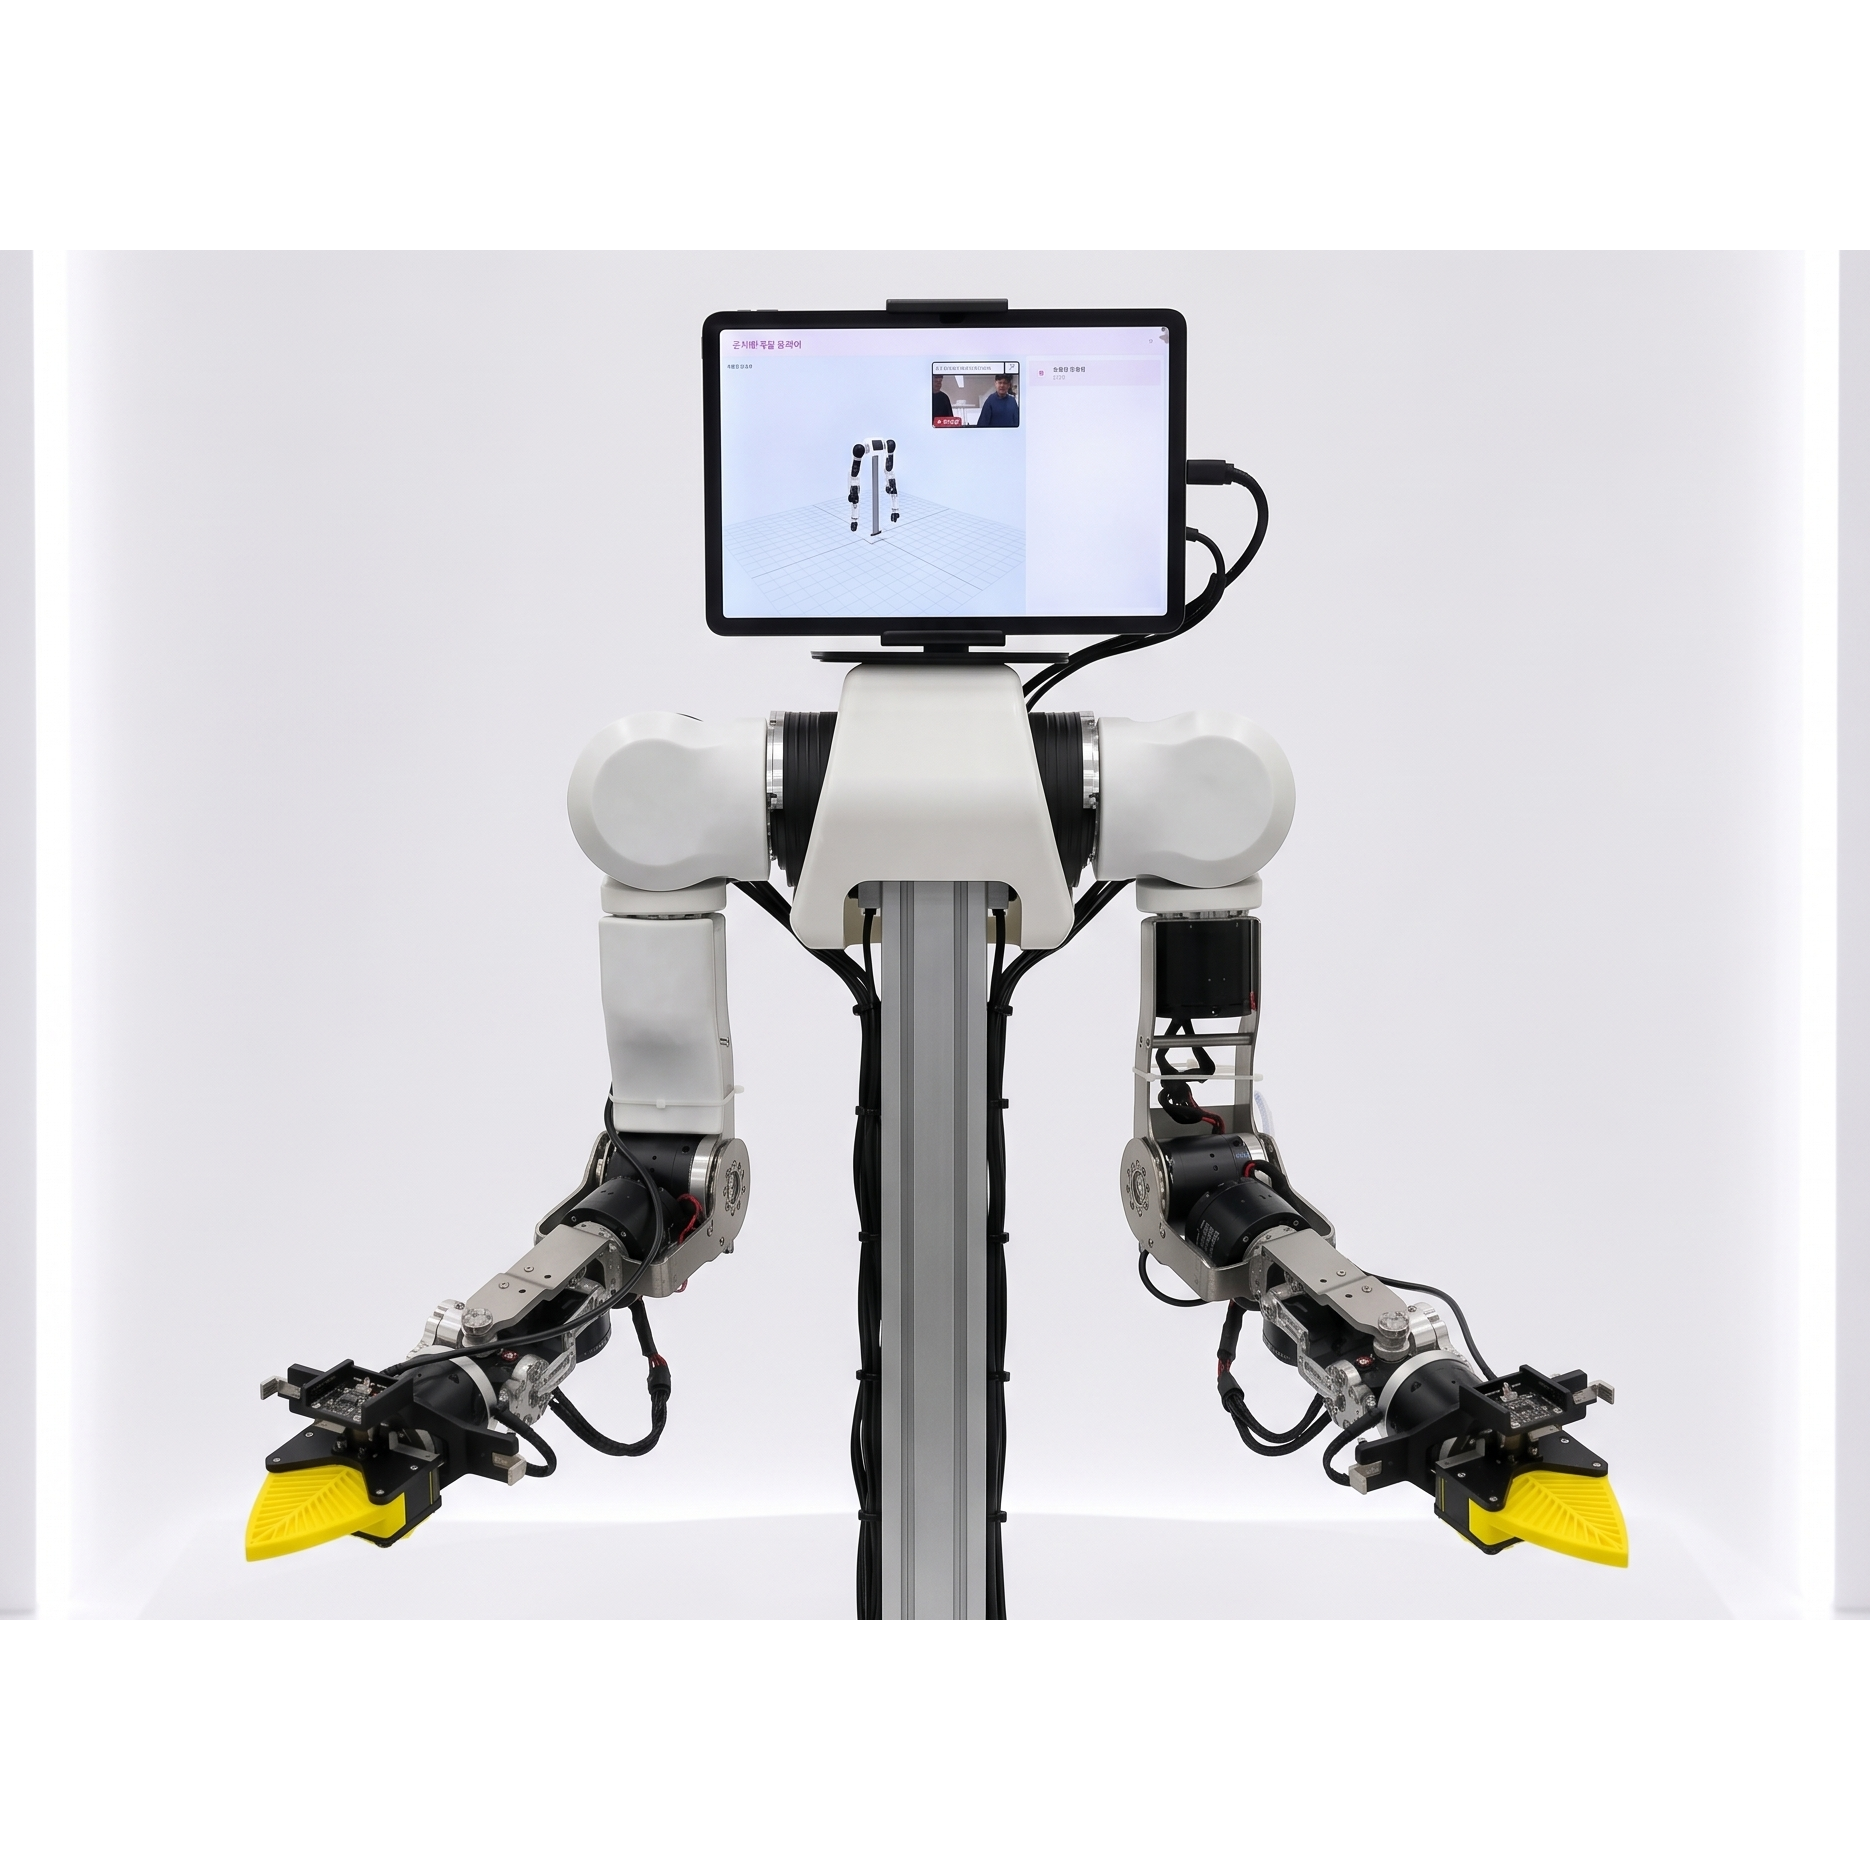
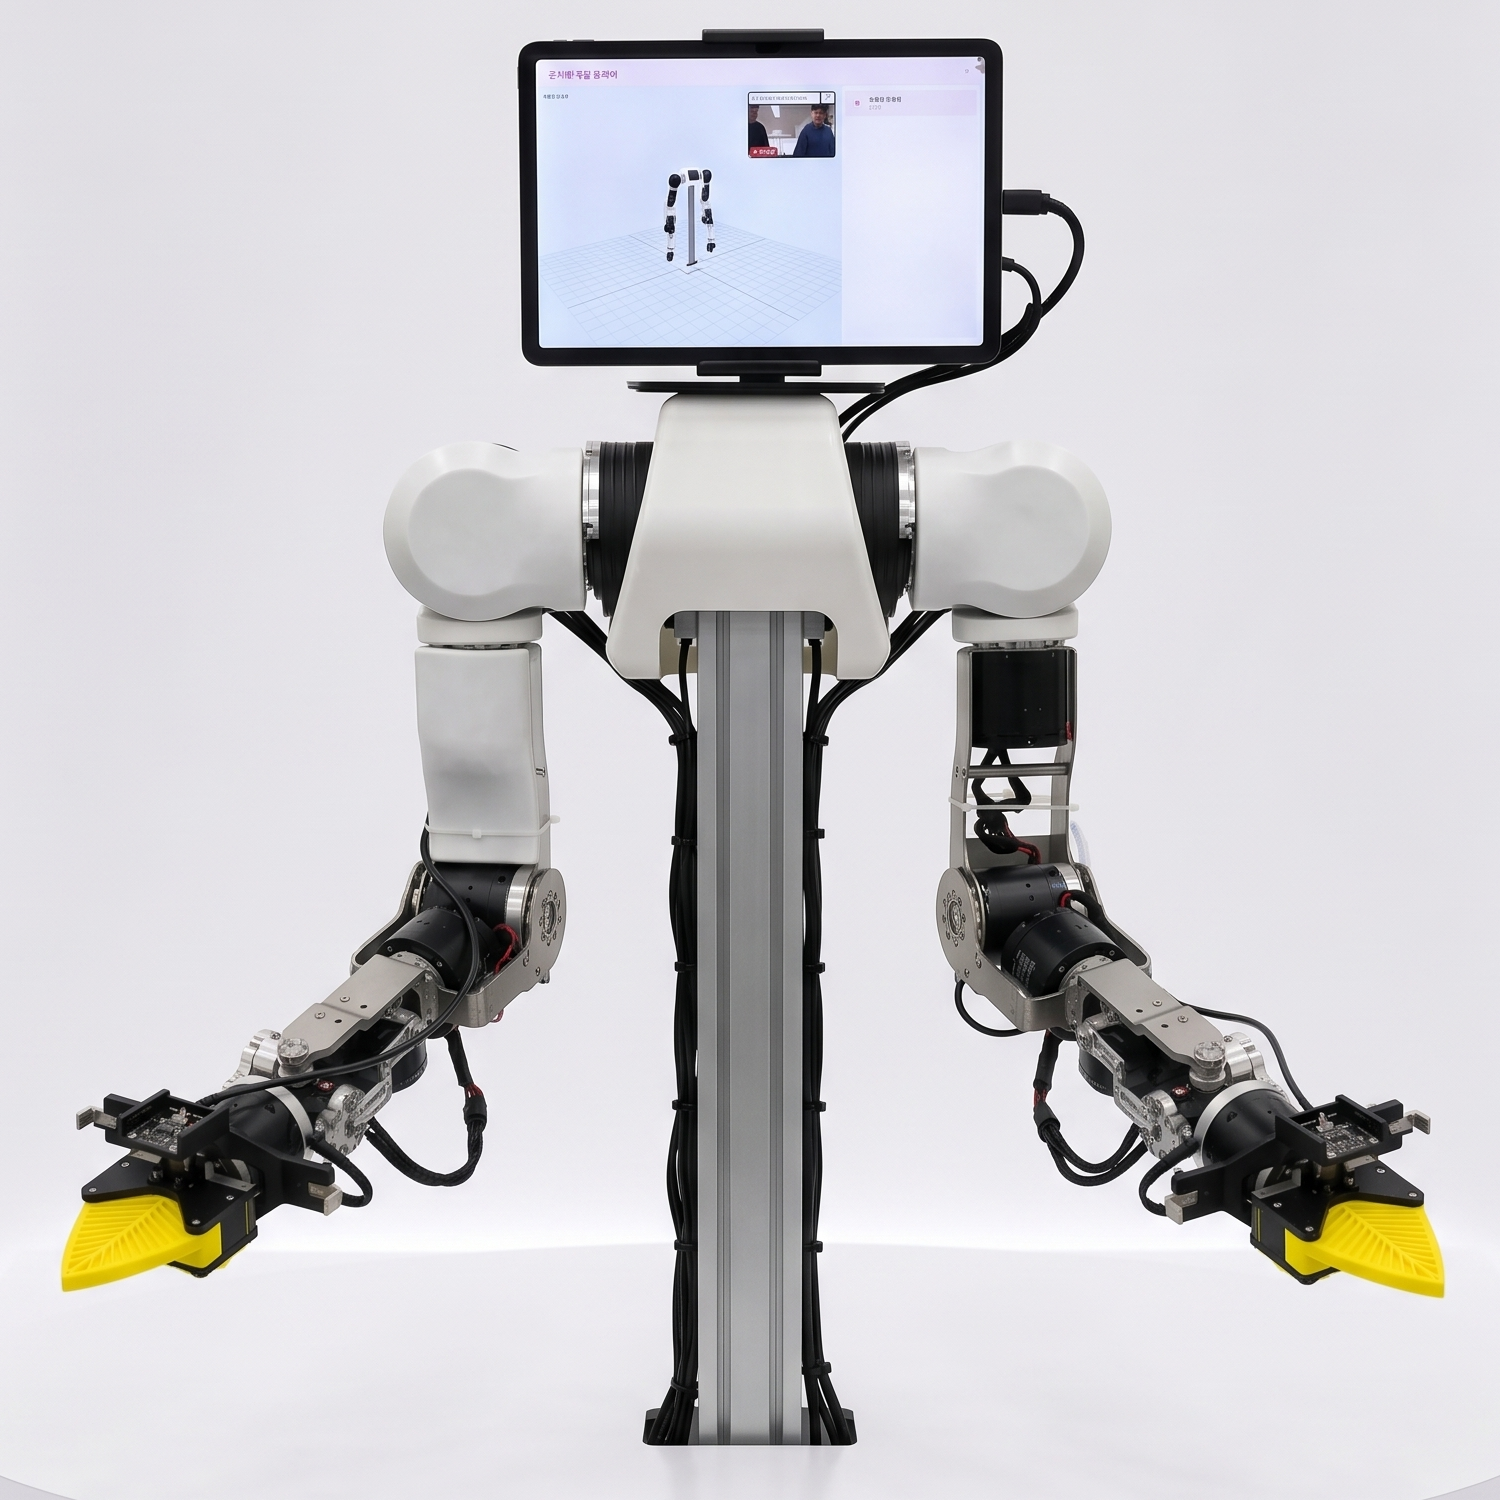
docs(panel): roomier header, drop robot badges, tighter uniform hardware crops, NoriArm demo

diff --git a/presentation/panel/poster-a1.html b/presentation/panel/poster-a1.html
@@ -26,7 +26,7 @@
     background-image: radial-gradient(circle at 5% 1%, #FCE0E7 0, transparent 19%), radial-gradient(circle at 96% 1%, #D7EAFA 0, transparent 17%); }
 
   /* ── HEADER ── */
-  .head{ display:flex; align-items:center; gap:11mm; background:var(--surface); border:1mm solid var(--border); border-radius:9mm; padding:8mm 12mm; box-shadow:0 4mm 12mm rgba(236,143,166,.18); position:relative; overflow:hidden }
+  .head{ display:flex; align-items:center; gap:11mm; background:var(--surface); border:1mm solid var(--border); border-radius:9mm; padding:18mm 12mm; box-shadow:0 4mm 12mm rgba(236,143,166,.18); position:relative; overflow:hidden }
   .head::before{ content:""; position:absolute; left:0; top:0; bottom:0; width:4mm; background:linear-gradient(180deg,var(--pink),var(--lav),var(--mint)) }
   .head .htext{ flex:1; padding-left:3mm }
   .eyebrow{ font-family:'Jua'; letter-spacing:.28em; color:var(--lav); font-size:18pt }
@@ -132,7 +132,6 @@
     </div>
     <div class="hright">
       <div class="team">사랑의 에듀핑 · 6인</div>
-      <div class="robots"><span class="rbadge" style="background:var(--pink)">EduPing</span><span class="rbadge" style="background:var(--mint)">GogoPing</span><span class="rbadge" style="background:var(--lav)">NoriArm</span></div>
     </div>
   </header>
 
@@ -239,7 +238,7 @@
             </div>
           </div>
           <div class="rfunc"><b>블럭쌓기</b> ACT 모방학습 · <b>OX 퀴즈</b> 손 검출 · <b>가게놀이</b> 음성 픽업·전달</div>
-          <div class="rblank"><span class="material-icons-round">image</span> 사진 · 설명 공간</div>
+          <div class="rshot"><img src="assets/noriarm-demo.png" alt="NoriArm 데모 — 가게놀이 · 블럭쌓기" /></div>
         </div>
       </section>
 
